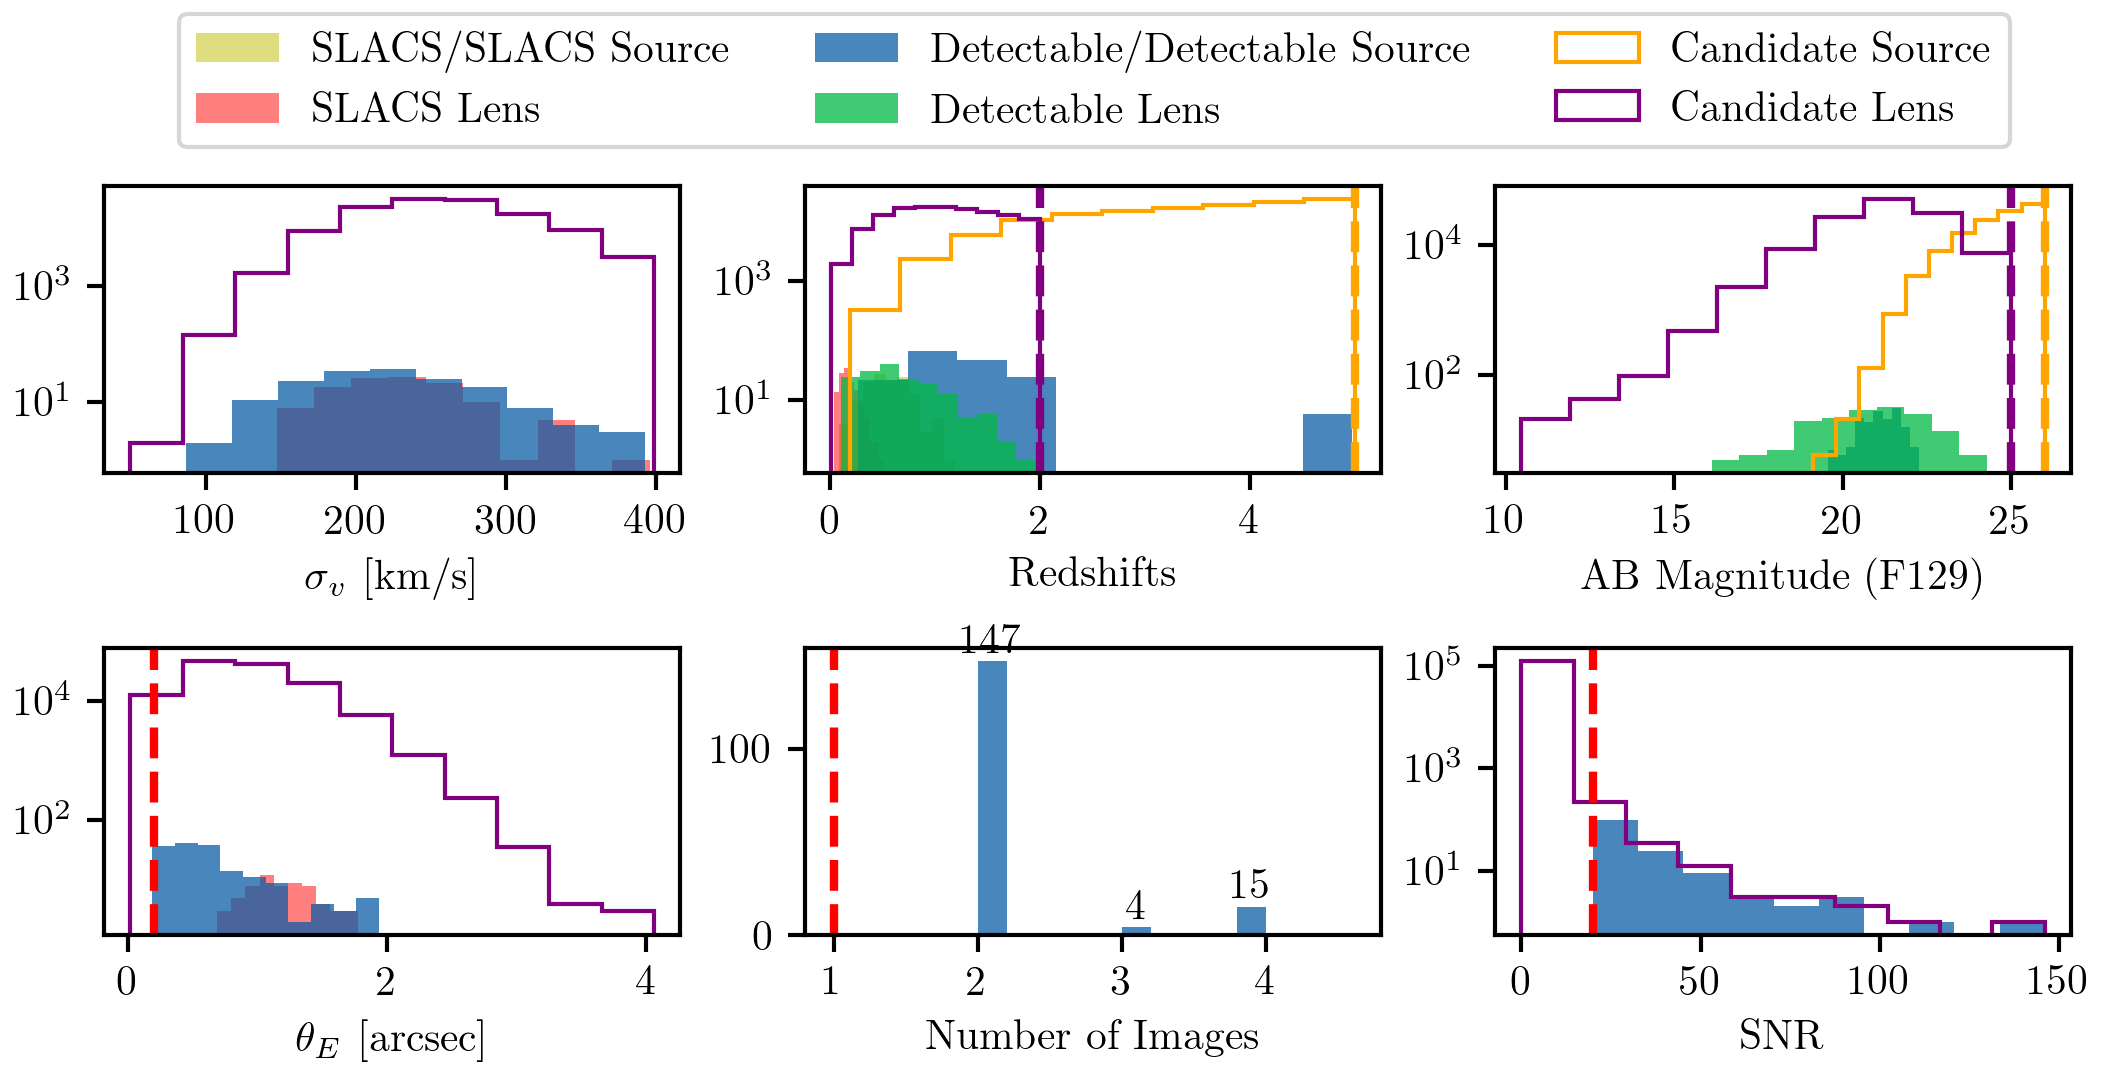
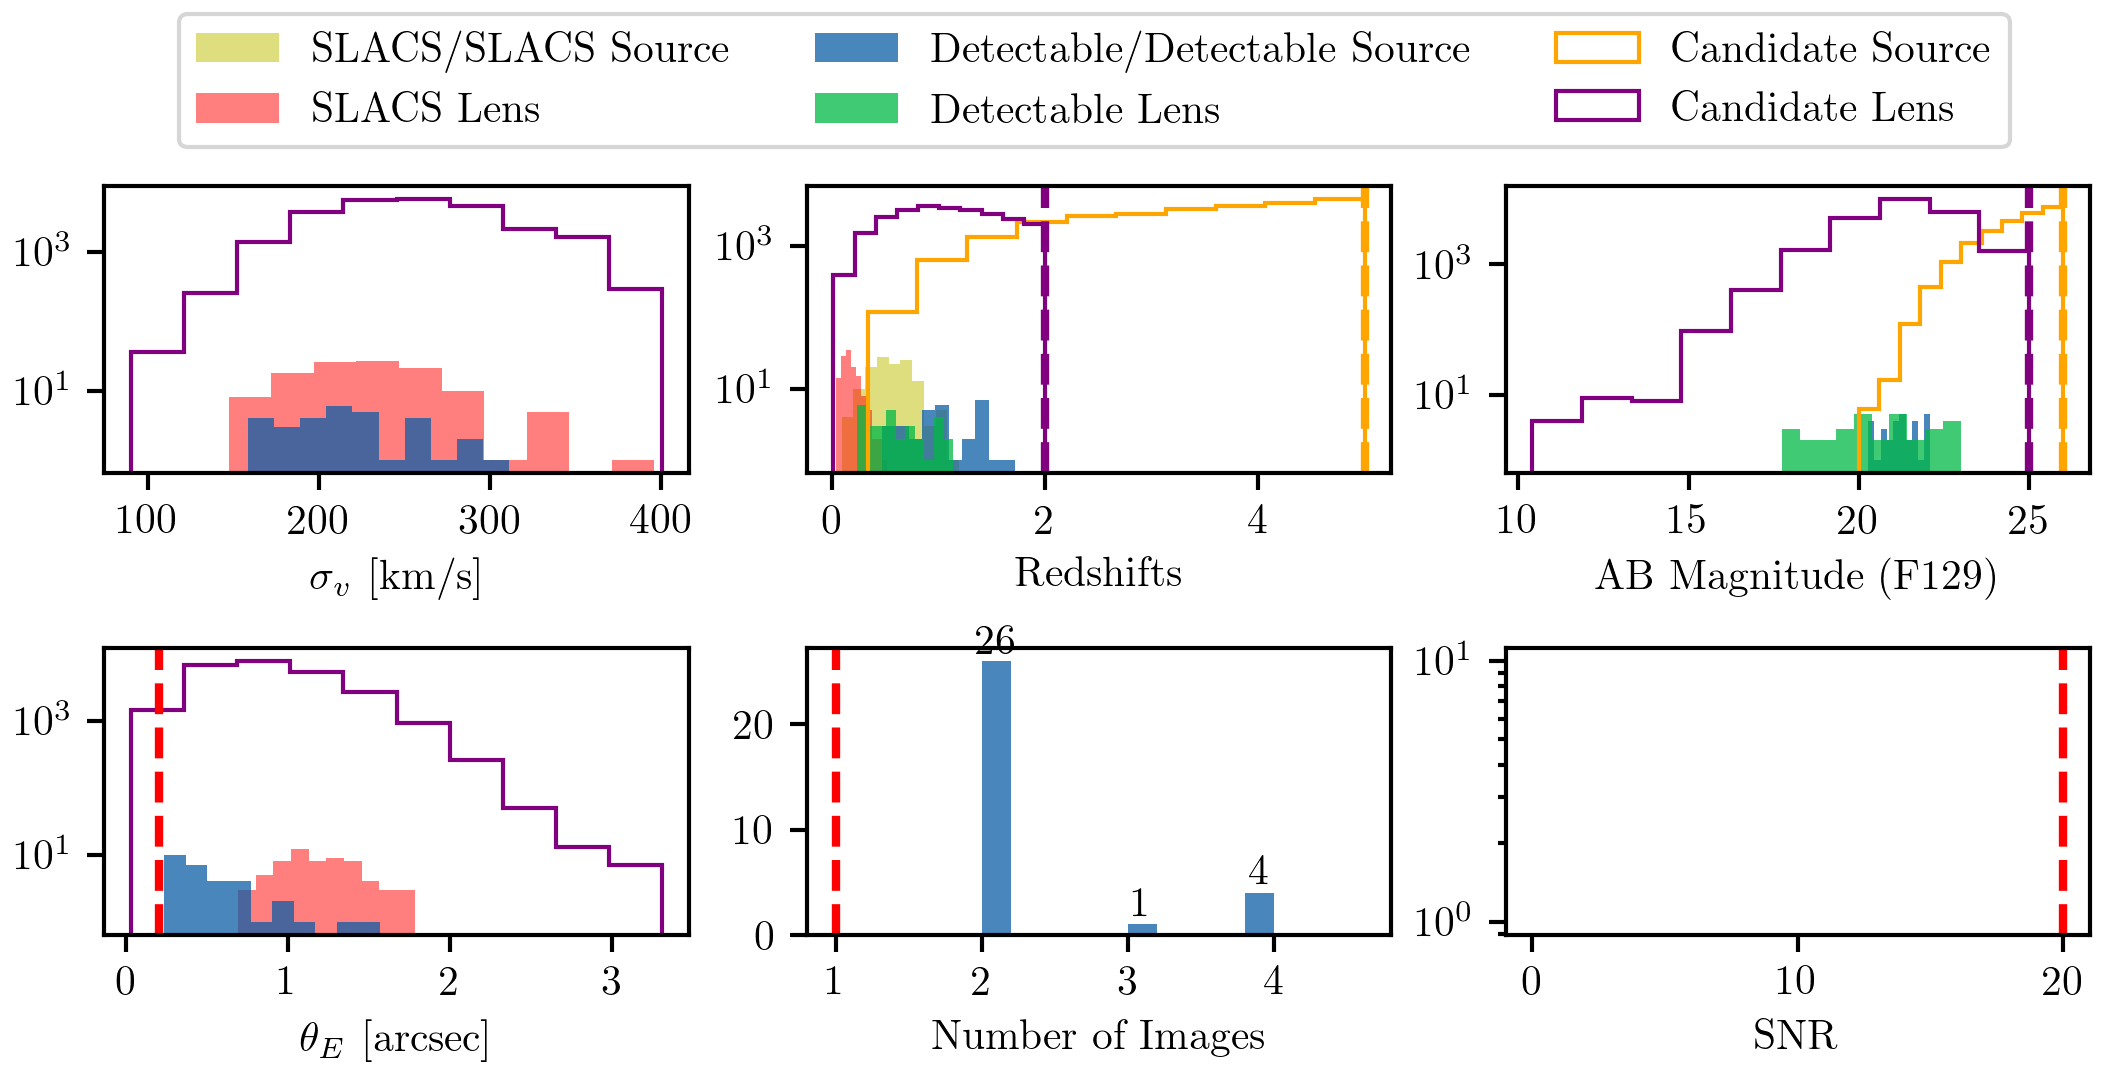
fix total SNR missing bug and SNR quantile 0.95->0.9

diff --git a/pipeline/scripts/00_hlwas_sim.py b/pipeline/scripts/00_hlwas_sim.py
@@ -156,19 +156,19 @@ def run_slsim(tuple):
 
     # compute SNRs and save
     if debugging: print(f'Computing SNRs for {len(total_lens_population)} lenses')
-    # snr_list = []
+    snr_list = []
     # j = 0
     for candidate in tqdm(total_lens_population, disable=not debugging):
         snr, _, _, _ = survey_sim.get_snr(candidate, band=survey_params['snr_band'], num_pix=45, side=4.95, oversample=1, debugging=False)
         if snr is None:
             continue
-        # snr_list.append(snr)
+        snr_list.append(snr)
         # if debugging:
         #     if j < 25:
         #         util.pickle(os.path.join(output_dir, f'masked_snr_array_{str(j).zfill(8)}.pkl'), masked_snr_array)
         #         util.pickle(os.path.join(output_dir, f'masked_snr_array_snr_{str(j).zfill(8)}.pkl'), snr)
         # j += 1
-    # np.save(os.path.join(output_dir, f'snr_list_{run}_sca{sca_id}.npy'), snr_list)
+    np.save(os.path.join(output_dir, f'snr_list_{run}_sca{sca_id}.npy'), snr_list)
 
     # save other params to CSV
     total_pop_csv = os.path.join(output_dir, f'total_pop_{run}_sca{sca_id}.csv')

diff --git a/mejiro/helpers/survey_sim.py b/mejiro/helpers/survey_sim.py
@@ -64,7 +64,7 @@ def get_snr(gglens, band, num_pix=45, side=4.95, oversample=1, return_snr_list=F
     snr_array = source / np.sqrt(total)
 
     if not np.any(snr_array >= 1):
-        masked_snr_array = np.ma.masked_where(snr_array <= np.quantile(snr_array, 0.95), snr_array)
+        masked_snr_array = np.ma.masked_where(snr_array <= np.quantile(snr_array, 0.9), snr_array)
     else:
         masked_snr_array = np.ma.masked_where(snr_array <= 1, snr_array)
 
@@ -92,7 +92,7 @@ def get_snr(gglens, band, num_pix=45, side=4.95, oversample=1, return_snr_list=F
     snr_list.append(overall_snr)
 
     if return_snr_list:
-        return snr_list, overall_snr
+        return snr_list, overall_snr, None, None
     else:
         return np.max(snr_list), masked_snr_array, snr_list, overall_snr
 
